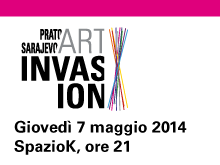
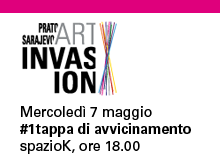
0.4.3 - minor changes

Changed region(s): [[0.0, 0.0606, 1.0, 0.9394]]

diff --git a/inc/banner.php b/inc/banner.php
@@ -1,4 +1,4 @@
-    <div id="banner" class="carousel slide" data-ride="carousel" data-interval="5000">
+    <div id="banner" class="carousel slide" data-ride="carousel" data-interval="3500">
       <!-- Indicators -->
 <!--       <ol class="carousel-indicators">
         <li data-target="#banner" data-slide-to="0" class="active"></li>
@@ -7,13 +7,13 @@
  -->      <!-- Wrapper for slides -->
       <div class="carousel-inner">
         <div class="item active">
-          <img src="images/img-banner-presentazione-progetto-prato-sarajevo.jpg" alt="Prato-Sarajevo art invasion - meeting#1"/>
-        </div>
-        <div class="item">
           <img src="images/img-banner-pimo-incontro-dryphoto.jpg" alt="Prato-Sarajevo art invasion - meeting#1"/>
         </div>        
         <div class="item">
           <img src="images/img-banner-pimo-incontro-pecci.jpg" alt="Prato-Sarajevo art invasion - meeting#1"/>
+        </div>
+        <div class="item">
+          <img src="images/img-banner-presentazione-progetto-prato-sarajevo.jpg" alt="Prato-Sarajevo art invasion - meeting#1"/>
         </div>
       </div>
     </div>

diff --git a/spreaker.php b/spreaker.php
@@ -49,6 +49,10 @@
                 <a href="http://www.spreaker.com/show/prato-sarajevo-art-invasions-tracks" traget="_blank">visita il canale di Prato-Sarajevo su spreaker.com</a>
               </p>
               <p class="spreaker">
+                <h4>Intervista a Valentina Lapolla</h4>
+                <iframe src="//www.spreaker.com/embed/player/standard?autoplay=false&episode_id=4409415" style="width: 100%; height: 131px; min-width: 400px;" frameborder="0" scrolling="no"></iframe>
+              </p>              
+              <p class="spreaker">
                 <h4>Intervista a Giacomo Laser e Giulia del Piero</h4>
                 <iframe src="//www.spreaker.com/embed/player/standard?autoplay=false&episode_id=4379980" style="width: 100%; height: 131px; min-width: 400px;" frameborder="0" scrolling="no"></iframe>
               </p>
